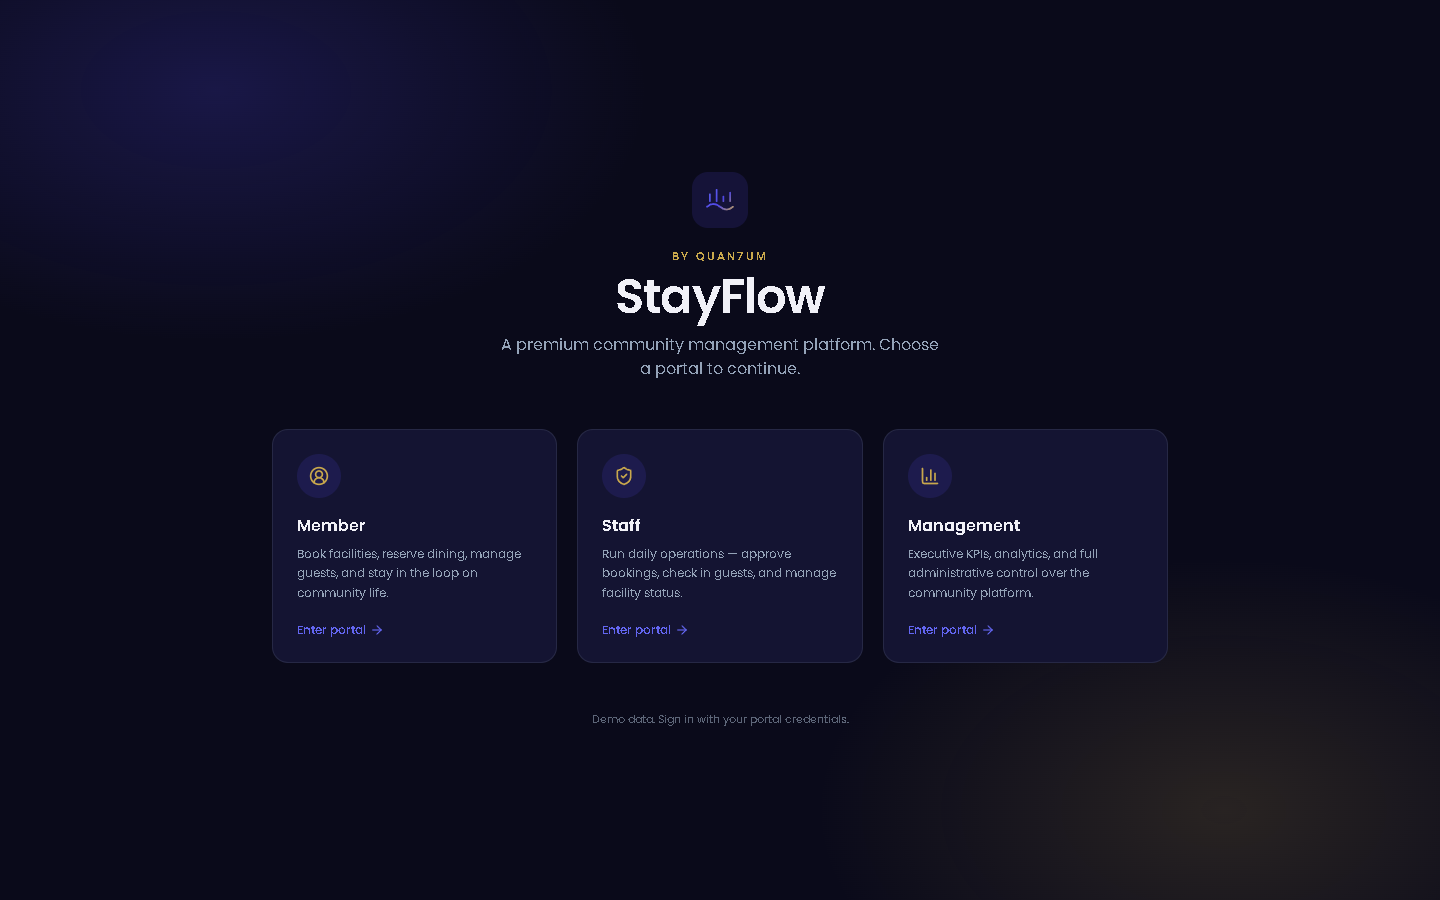
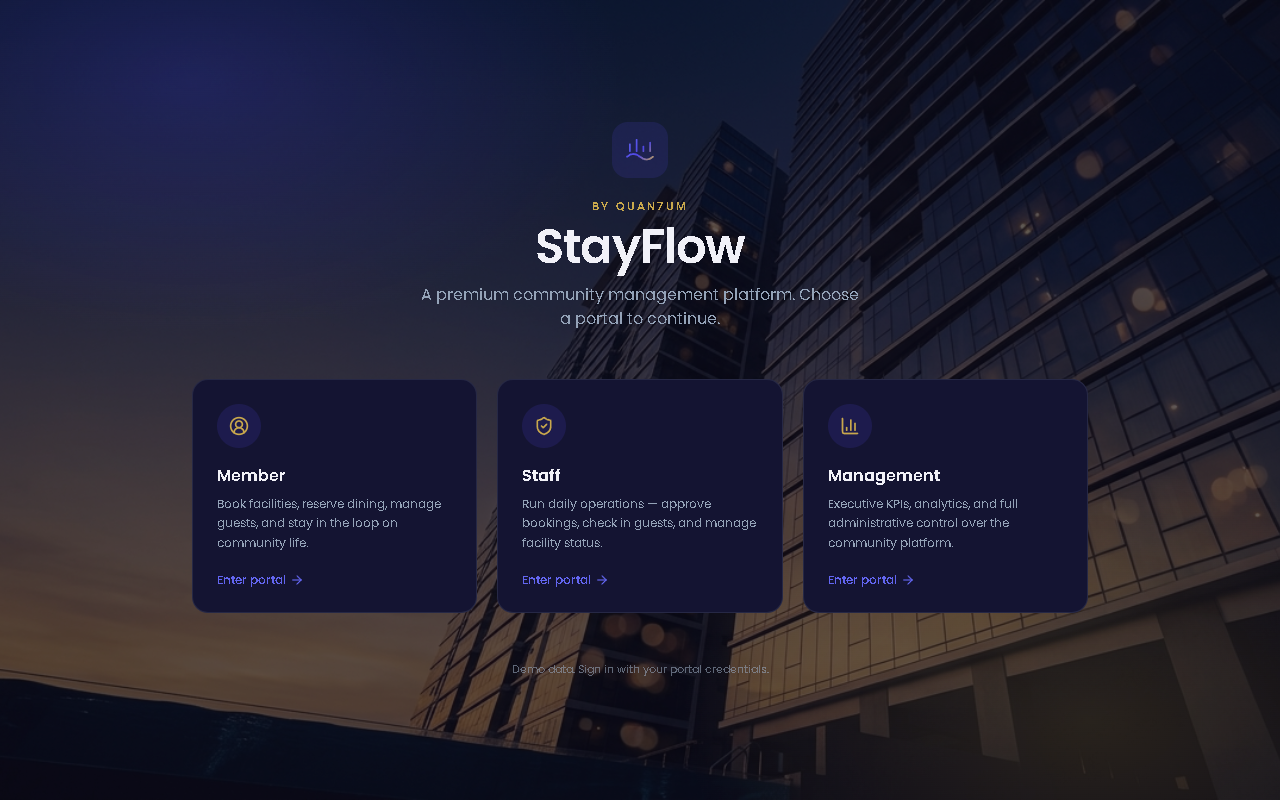
docs: document staff-portal hardening pass and hero imagery feature, refresh README screenshots

diff --git a/docs/Changelog.md b/docs/Changelog.md
@@ -11,6 +11,13 @@
 - **feat(server):** admin action audit trail (`admin_action_events`) — logs every admin CREATE/UPDATE/DELETE on residents/staff/facilities/restaurants/tables/notices.
 - **perf(server):** paginate/narrow high-growth list endpoints (notifications, bookings, dining reservations, guests), dedupe ownership-check double-fetches, add composite indexes on `bookings` and `dining_tables`.
 - **chore(config):** consolidate two divergent `.env` files (root + `server/.env`, different `JWT_SECRET` values) into a single root `.env` — `server/.env` deleted; Prisma CLI now invoked from root with an explicit schema path instead of relying on a second env file.
+- **fix(member):** add a "Not you? Log out" escape from the forced-password-change gate, matching the sibling no-resident-linked screen.
+- **fix(scripts):** `reset-test-passwords.js` now loads the repo `.env` by file-relative path — works regardless of invocation cwd instead of relying on an implicit cwd-relative load.
+- **fix(staff):** full audit and hardening pass across the staff portal — guest check-in/check-out now enforces the `PENDING → APPROVED → CHECKED_IN → CHECKED_OUT` state machine server-side (closing a bypass where a guest could be checked out without ever checking in); bookings/dining/facilities/guests time-of-day sorting fixed (was comparing raw non-zero-padded time strings, e.g. `"9:00 AM"` sorting after `"10:00 AM"`); the dining table map now refreshes after a status change instead of going stale; booking rejection requires confirmation (matching the existing dining decline pattern); double-submit races on status-changing actions closed across bookings/dining/facilities/guests with a ref-backed busy guard (state alone can't catch two clicks before React re-renders).
+- **fix(staff):** narrowed the resident data fetched by the events attendee list to `{id, name, unit}` — the full resident directory response (email, phone, emergency contacts, family, vehicles) was being held in page state for fields never rendered.
+- **fix(staff):** added busy-state spinner feedback to the booking approve/reject icon buttons — previously only `disabled`, with no visible in-flight indicator.
+- **docs:** documented that the staff-portal Access Matrix is server-enforced RBAC only, not staff-UI coverage — STAFF has real API write access to restaurants/tables/events/notices/residents with no corresponding `/staff/*` screens yet (see [Rules.md](Rules.md)).
+- **feat(ui):** photographic hero backgrounds — landing page, all three login screens, and the member dashboard welcome banner now use full-bleed photography (`public/images/hero/`) behind the existing color-wash overlays, replacing flat CSS-only gradients/patterns. Shared across verify-email/reset-password/forgot-password (same visual system as the member login).
 
 ## Unreleased / Recent
 

diff --git a/docs/Design.md b/docs/Design.md
@@ -32,6 +32,7 @@ Dark, premium "concierge" theme — navy/indigo canvas with gold accent, glassmo
 - **Motion:** `.animate-fade-in` + staggered `-delay-1/2/3` variants (480ms cubic-bezier ease-out, 14px translateY). Respects `prefers-reduced-motion`.
 - **Glass top bar:** `.glass-topbar` — `backdrop-filter: blur(16px) saturate(140%)` over semi-transparent surface.
 - **Stat tiles / `.reveal` / `.ambient-wash`:** newer primitives added in the 2026-07-15 UI pass for KPI/analytics surfaces.
+- **Hero imagery (`public/images/hero/`):** full-bleed photographic backgrounds on the landing page, all three login screens, and the member dashboard welcome banner. Pattern: absolutely-positioned `<img>` filling the container (`object-cover`), a semi-transparent `bg-canvas/NN` (or `bg-surface/NN`) scrim on top for text legibility, then the existing radial-gradient/accent-line decoration layered above that. Shared images are reused where the visual system matches (verify-email/reset-password/forgot-password all reuse the member-login image). Assets generated externally and dropped in — not generated at build time.
 
 ## Layout patterns
 